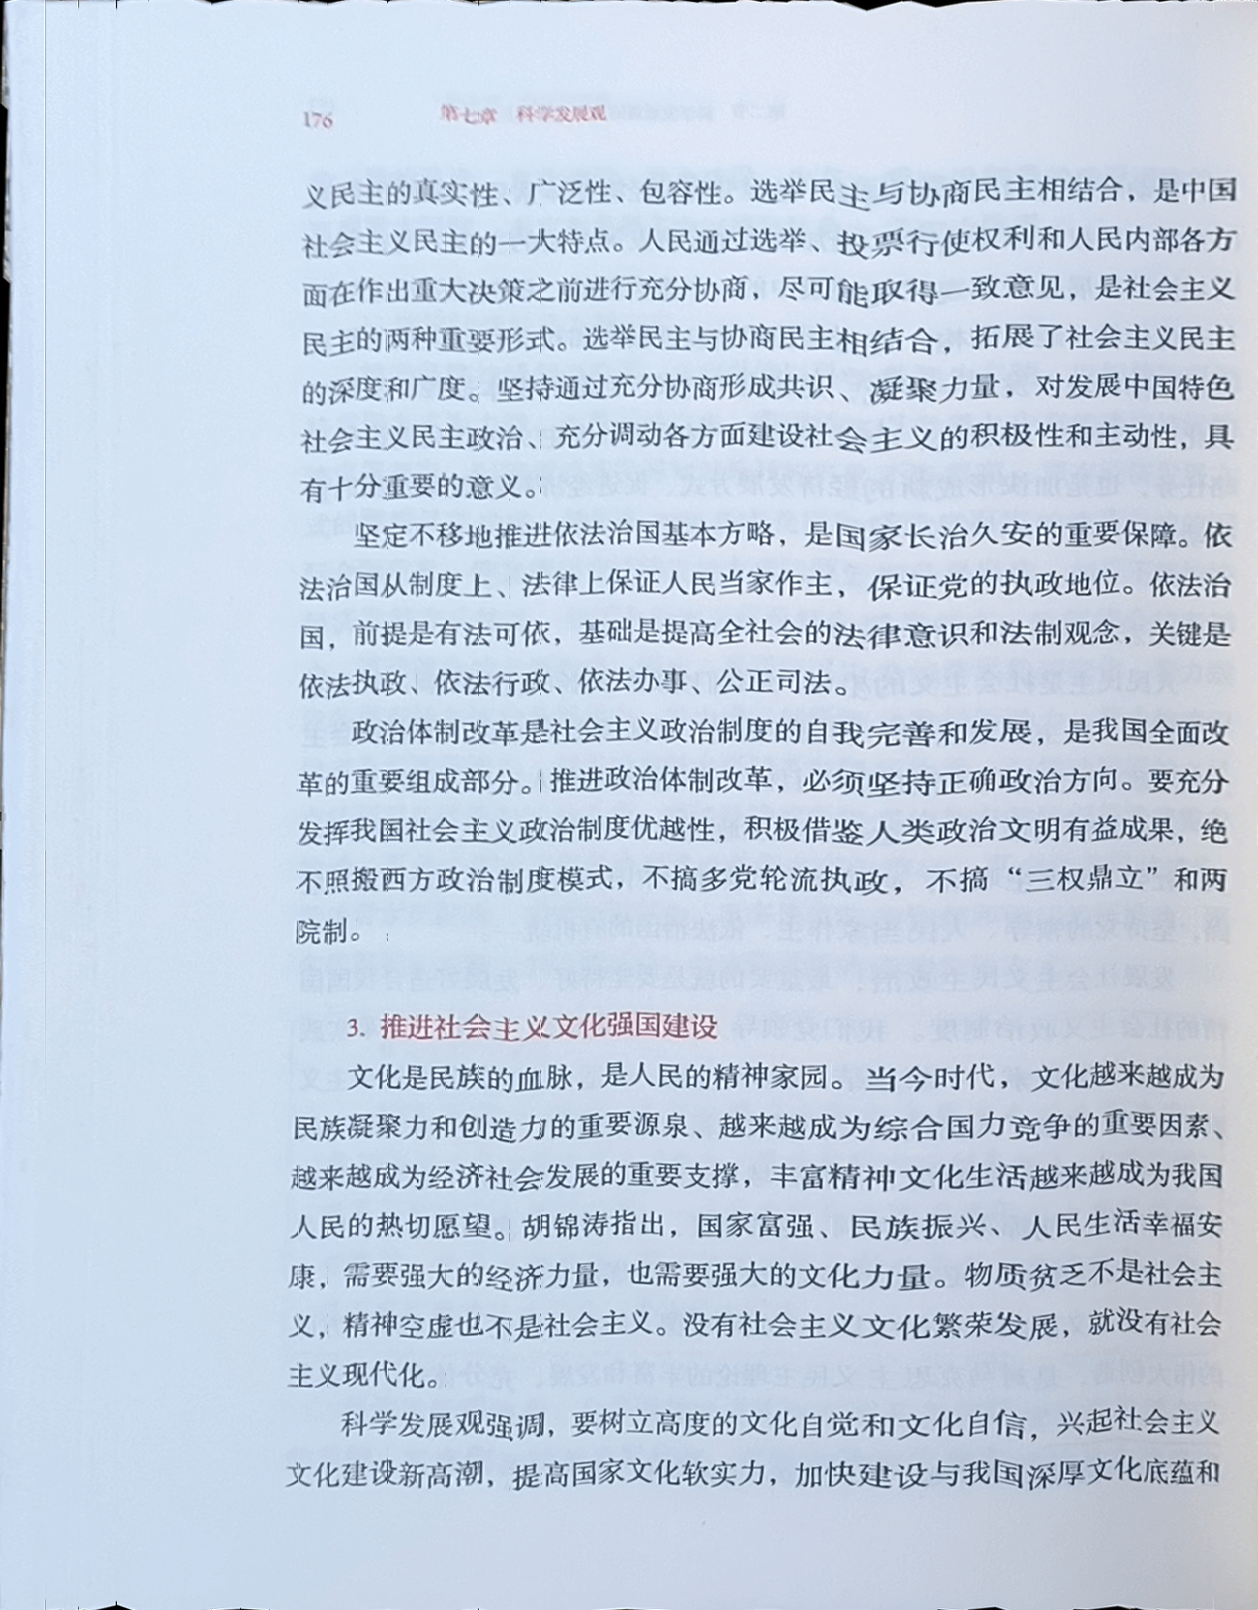
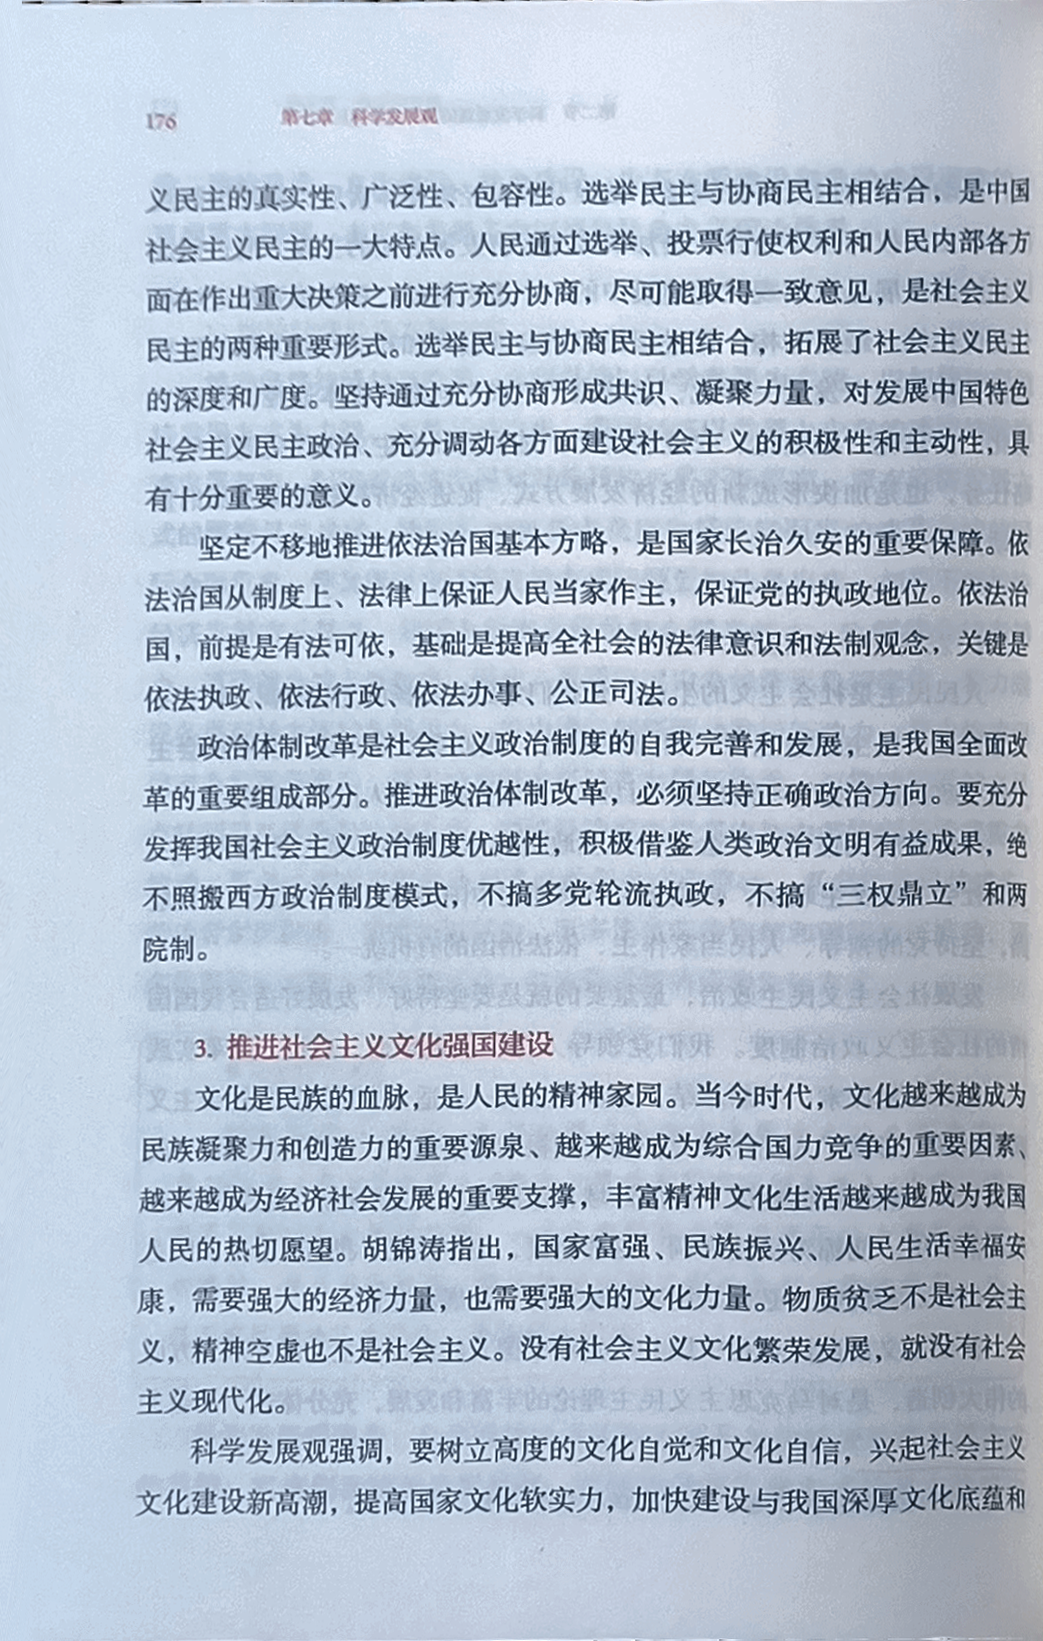
将更改的代码应用在图片上，更新了图片

diff --git a/text_classificate/pic_pre_process.py b/text_classificate/pic_pre_process.py
@@ -1218,25 +1218,25 @@ def process_main(fold_path, img_name, net, transform):
     # 使用Unet进行图像分割
     img_name = img_name.split(".")[0]
 
-    # print(f"开始Unet图像分割{img_name}.png...")
-    # masked_img = predict_by_unet(fold_path + img_name + '.png', net, transform)
-    # cv2.imwrite(f"{fold_path}/{img_name}_0_masked.png", masked_img)
+    print(f"开始Unet图像分割{img_name}.png...")
+    masked_img = predict_by_unet(fold_path + img_name + '.png', net, transform)
+    cv2.imwrite(f"{fold_path}/{img_name}_0_masked.png", masked_img)
 
-    # # 动态光照补偿
-    # print(f"开始动态光照补偿{img_name}_0_masked.png...")
-    # enhanced_img = adaptive_lighting_enhancement(f"{fold_path}/{img_name}_0_masked.png")
-    # cv2.imwrite(f"{fold_path}/{img_name}_1_enhanced.png", enhanced_img)
+    # 动态光照补偿
+    print(f"开始动态光照补偿{img_name}_0_masked.png...")
+    enhanced_img = adaptive_lighting_enhancement(f"{fold_path}/{img_name}_0_masked.png")
+    cv2.imwrite(f"{fold_path}/{img_name}_1_enhanced.png", enhanced_img)
 
-    # # 旋转校正
-    # print(f"开始旋转校正{img_name}_1_enhanced.png...")
-    # rotated = correct_book_rotation(f'{fold_path}/{img_name}_1_enhanced.png')
-    # cv2.imwrite(f"{fold_path}/{img_name}_2_rotated.png", rotated)
+    # 旋转校正
+    print(f"开始旋转校正{img_name}_1_enhanced.png...")
+    rotated = correct_book_rotation(f'{fold_path}/{img_name}_1_enhanced.png')
+    cv2.imwrite(f"{fold_path}/{img_name}_2_rotated.png", rotated)
 
-    # # 分页处理
-    # print(f"开始分页处理{img_name}_2_rotated.png...")
-    # left_page, right_page = find_book_corners_and_split(f"{fold_path}/{img_name}_2_rotated.png")
-    # cv2.imwrite(f"{fold_path}/{img_name}_3_left_page.png", left_page)
-    # cv2.imwrite(f"{fold_path}/{img_name}_3_right_page.png", right_page)
+    # 分页处理
+    print(f"开始分页处理{img_name}_2_rotated.png...")
+    left_page, right_page = find_book_corners_and_split(f"{fold_path}/{img_name}_2_rotated.png")
+    cv2.imwrite(f"{fold_path}/{img_name}_3_left_page.png", left_page)
+    cv2.imwrite(f"{fold_path}/{img_name}_3_right_page.png", right_page)
 
     # 书页矫正
     print(f"开始书页矫正{img_name}_3_left_page.png...")
